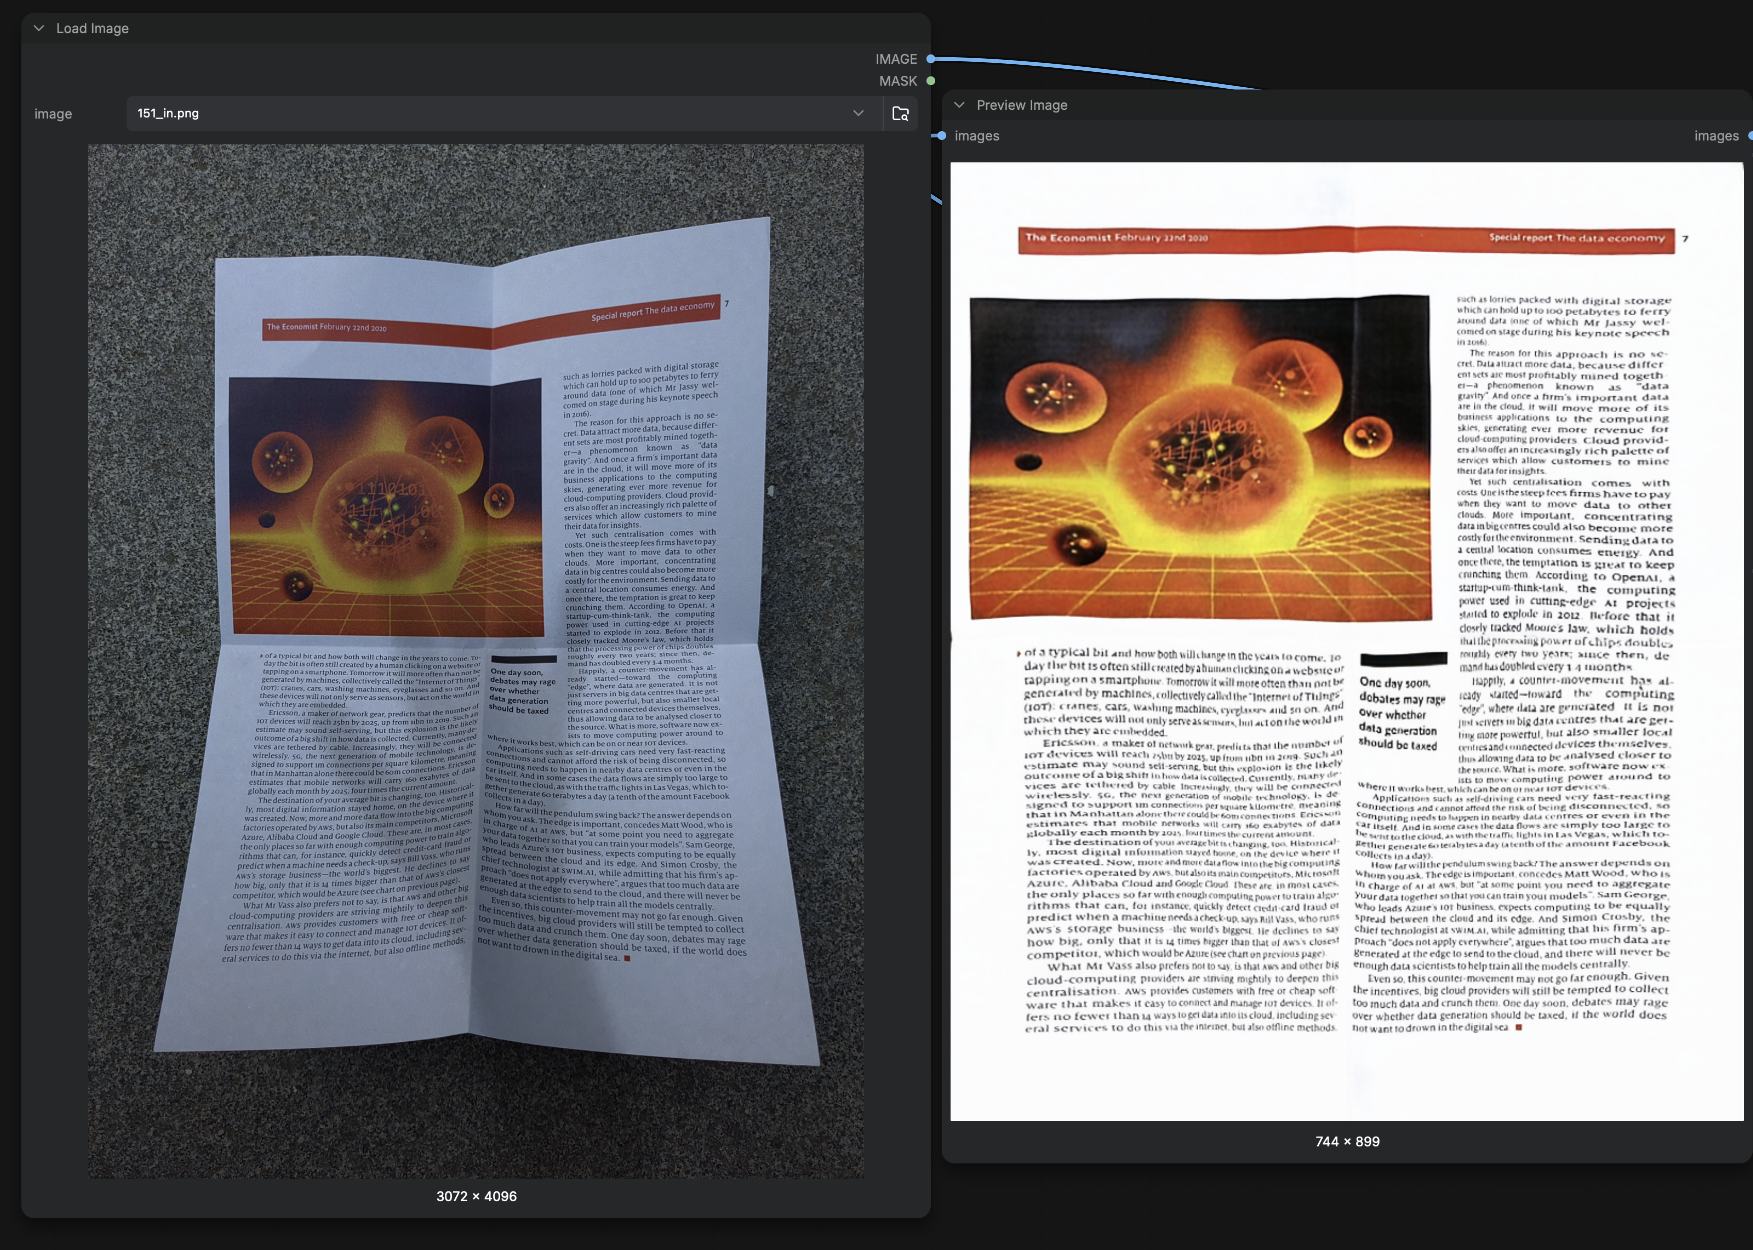
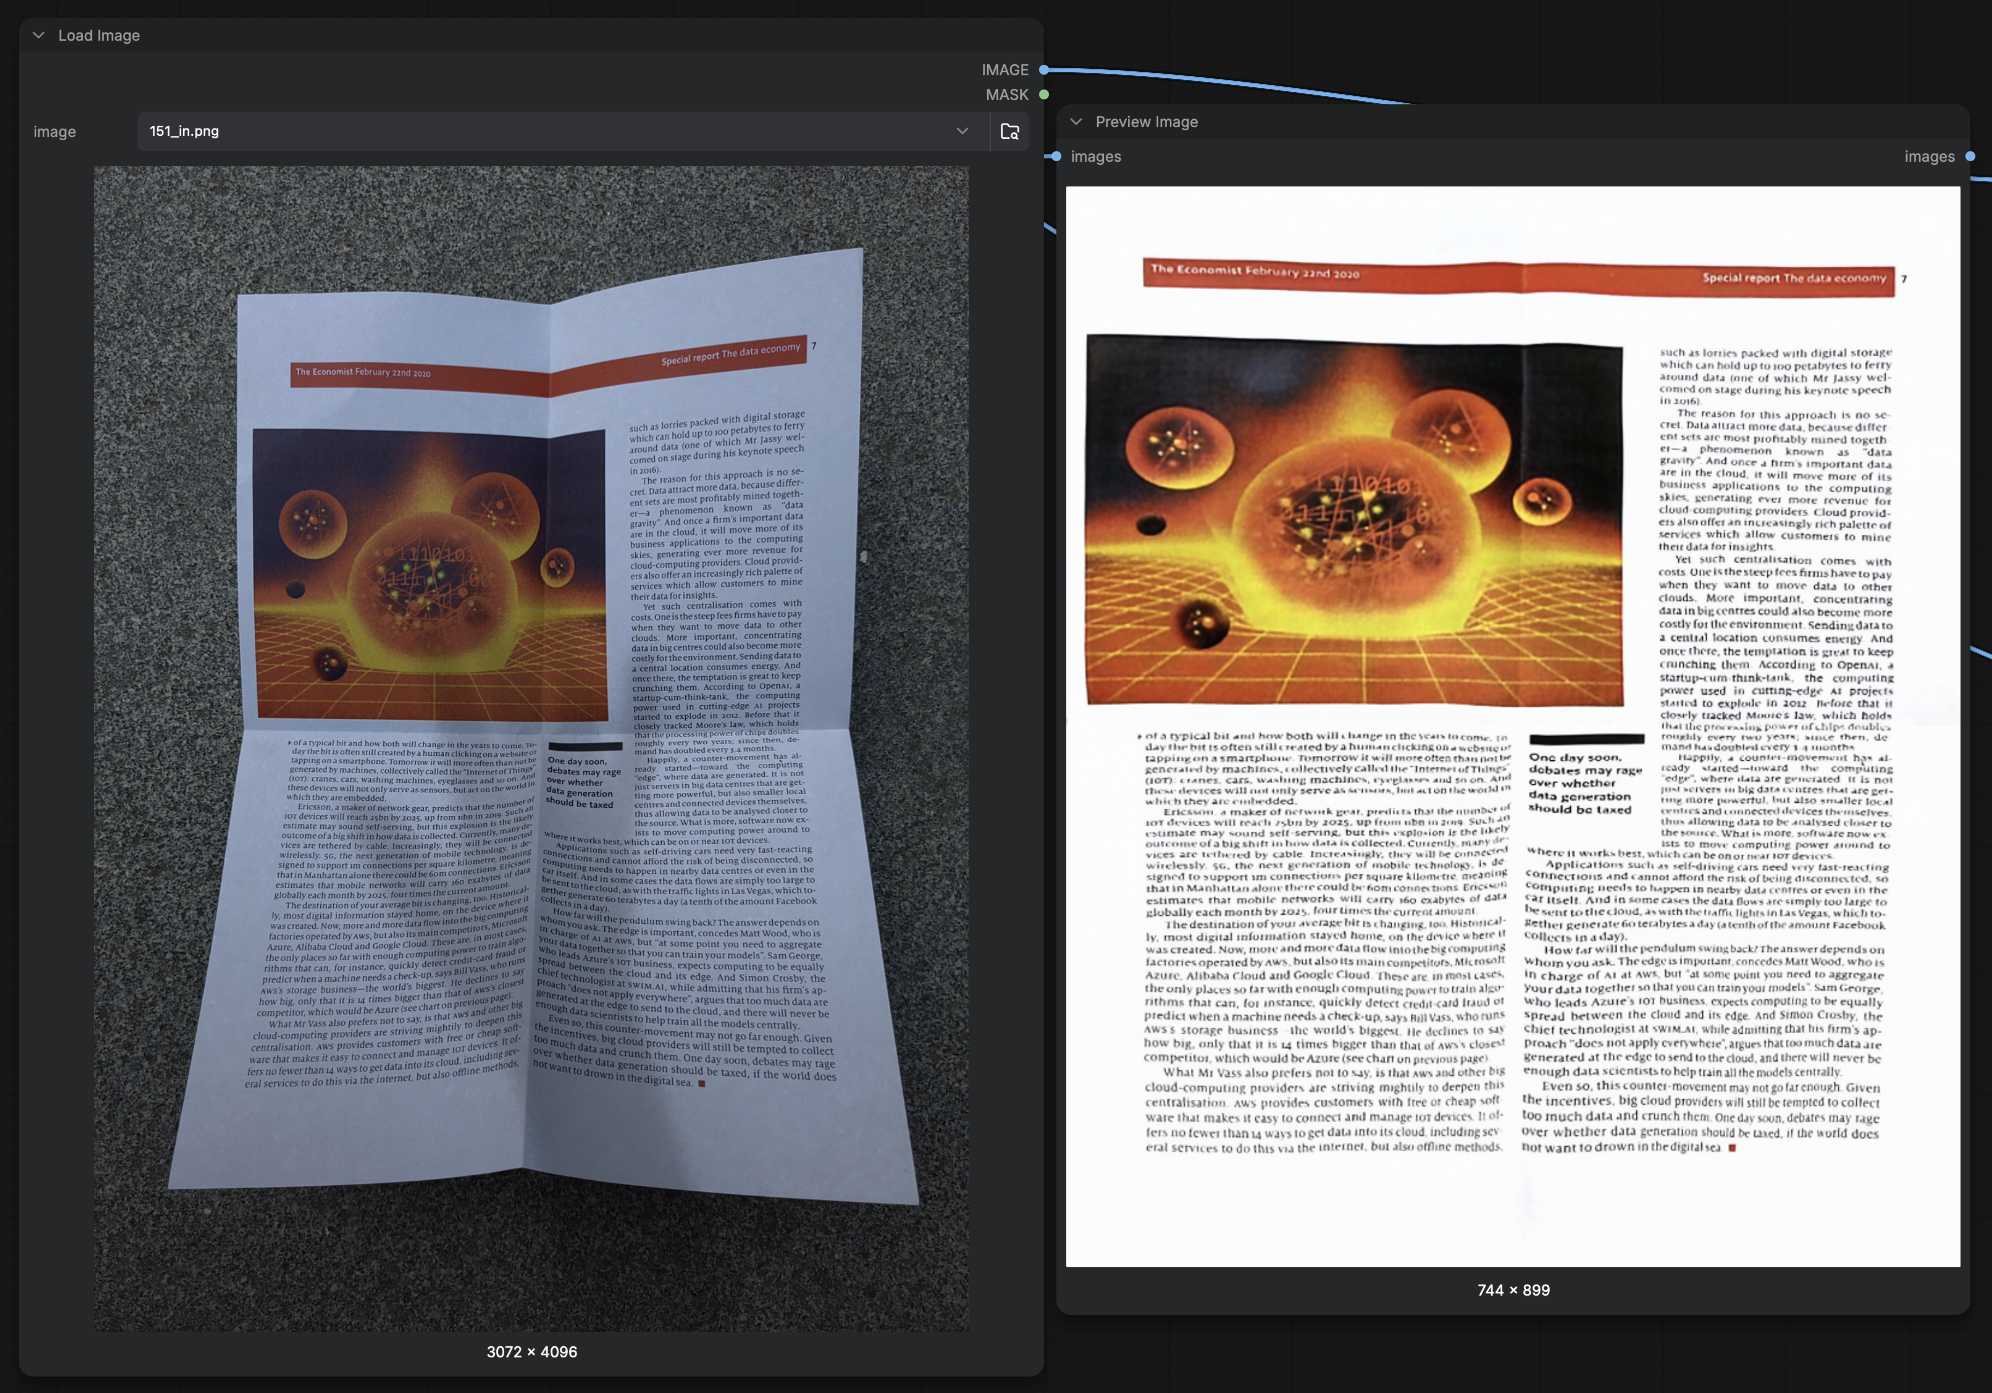
Fetch weights from Hugging Face instead of shipping them
The three checkpoints totalled ~335 MB (458 MB on GitHub LFS). Committing
them made every clone pay that cost and burned the LFS bandwidth quota after
a couple of dozen installs. They now download on first use from
zjkhurry/comfyui-docres-weights and cache in weights/, which is gitignored.

Weights already present in the node's weights/ or in ComfyUI's models/ are
used as-is, so nothing is fetched twice. The control-point checkpoint is the
stripped state_dict of the upstream training .pkl (152 MB -> 51 MB, verified
bit-identical), so it loads via safetensors rather than torch.load.

Adds pyproject.toml with the [tool.comfy] section for Comfy Registry.

diff --git a/weights_fetch.py b/weights_fetch.py
@@ -1,0 +1,83 @@
+"""Fetch model weights from Hugging Face on first use.
+
+The weights are not committed to this repository -- they are ~335 MB and would
+dominate every clone and, on GitHub LFS, burn the owner's bandwidth quota on the
+first couple of dozen installs. They live in a Hugging Face dataset instead:
+
+    https://huggingface.co/zjkhurry/comfyui-docres-weights
+
+Downloads are cached next to the node in `weights/`, so each file is fetched
+once. A file already present is never re-downloaded, and a download that was
+interrupted is retried on the next run rather than failing at load time.
+"""
+import os
+
+HERE = os.path.dirname(os.path.abspath(__file__))
+
+HF_REPO = "zjkhurry/comfyui-docres-weights"
+WEIGHT_DIR = os.path.join(HERE, "weights")
+
+# filename -> filename on the Hub
+FILES = {
+    "docres.safetensors": "docres.safetensors",
+    "mbd.safetensors": "mbd.safetensors",
+    "ddc_fiducial1024_v1.safetensors": "ddc_fiducial1024_v1.safetensors",
+}
+
+
+def _local_path(name):
+    """Where `name` lives once it has been downloaded."""
+    return os.path.join(WEIGHT_DIR, name)
+
+
+def _download(name, repo_id, local):
+    """Download one file straight into `local`.
+
+    `local_dir` puts the file where we want it instead of a shared cache that
+    would then have to be copied, which would leave a second copy on disk for no
+    benefit. A partial download is discarded so a retry starts clean.
+    """
+    from huggingface_hub import hf_hub_download
+
+    os.makedirs(WEIGHT_DIR, exist_ok=True)
+    partial = local + ".part"
+    if os.path.exists(partial):
+        os.remove(partial)
+    try:
+        path = hf_hub_download(
+            repo_id=repo_id, filename=name, local_dir=WEIGHT_DIR,
+        )
+    except Exception:
+        if os.path.exists(partial):
+            os.remove(partial)
+        raise
+    # hf_hub_download returns the real path; normalise it to what we promised.
+    return local if os.path.isfile(local) else path
+
+
+def ensure(name, repo_id=HF_REPO):
+    """Return a local path for `name`, downloading it first if necessary.
+
+    An existing file is used as-is, so a user who dropped the weights in
+    manually, or who is offline after the first run, is not forced to fetch
+    anything again.
+    """
+    local = _local_path(name)
+    if os.path.isfile(local) and os.path.getsize(local) > 0:
+        return local
+    return _download(name, repo_id, local)
+
+
+def prefetch(names=None, repo_id=HF_REPO):
+    """Download every weight in `FILES` (or just `names`).
+
+    Safe to call when the files are already present; it is how an installer or a
+    first-run hook warms the cache without loading any model.
+    """
+    wanted = list(names) if names else list(FILES)
+    missing = [n for n in wanted if not (
+        os.path.isfile(_local_path(n)) and os.path.getsize(_local_path(n)) > 0
+    )]
+    for name in missing:
+        _download(name, repo_id, _local_path(name))
+    return [_local_path(n) for n in wanted]

diff --git a/ddc_pipeline.py b/ddc_pipeline.py
@@ -29,7 +29,9 @@ import os
 import cv2
 import numpy as np
 import torch
+from safetensors.torch import load_file
 
+import weights_fetch
 from ddc.network import DilatedResnetForFlatByFiducialPointsS2, FiducialPoints
 from ddc.tpsV2 import createThinPlateSplineShapeTransformer
 
@@ -112,20 +114,19 @@ def resolve_device(preferred="auto"):
     return torch.device("cpu")
 
 
-# Control-point weights, shipped next to the network in ddc/models/.
-CHECKPOINT = os.path.join(
-    os.path.dirname(os.path.abspath(__file__)), "ddc", "models",
-    "2021-02-03 16_15_55flat_img_by_fiducial_points-fiducial1024_v1.pkl",
-)
+# Control-point weights, fetched from Hugging Face on first use and cached in
+# weights/. The upstream release is a training checkpoint whose optimizer state
+# is twice the size of the model; the copy on the Hub is the stripped
+# state_dict, so nothing here needs torch.load or the prefix fixup.
+CHECKPOINT_NAME = "ddc_fiducial1024_v1.safetensors"
 
 
 def _require_checkpoint():
-    if not os.path.isfile(CHECKPOINT):
-        raise FileNotFoundError(
-            "Control-point dewarping weights not found at:\n  %s\n"
-            "Expected the released checkpoint in ddc/models/." % CHECKPOINT
-        )
-    return CHECKPOINT
+    """Path to the control-point weights, downloading them if necessary."""
+    local = os.path.join(weights_fetch.WEIGHT_DIR, CHECKPOINT_NAME)
+    if os.path.isfile(local) and os.path.getsize(local) > 0:
+        return local
+    return weights_fetch.ensure(CHECKPOINT_NAME)
 
 
 def load_model(device):
@@ -143,9 +144,9 @@ def load_model(device):
         BatchNorm="BN",
         in_channels=3,
     )
-    checkpoint = torch.load(path, map_location="cpu", weights_only=False)
-    state = checkpoint["model_state"] if "model_state" in checkpoint else checkpoint
-    # The released checkpoint was saved through DataParallel.
+    state = load_file(path)
+    # Tolerate a file converted from the original .pkl, which carries the
+    # DataParallel prefix.
     state = {k[7:] if k.startswith("module.") else k: v for k, v in state.items()}
     model.load_state_dict(state)
     model = model.eval().to(device)

diff --git a/pipeline.py b/pipeline.py
@@ -17,6 +17,7 @@ from safetensors.torch import load_file
 
 import prompts
 import tiles
+import weights_fetch
 from mbd.deeplab import DeepLab
 from restormer_arch import Restormer
 
@@ -31,8 +32,13 @@ _MODEL_CACHE = {}
 
 
 def _find_weight(name):
-    """Look for a weight file bundled with the node, then in ComfyUI models/."""
-    candidates = [os.path.join(HERE, "models", name)]
+    """Locate `name`, preferring a local copy and downloading it if absent.
+
+    Search order: the node's own weights/ cache, then ComfyUI's model folders
+    (so a user who placed the file there is not made to fetch it again), then
+    Hugging Face.
+    """
+    candidates = [os.path.join(weights_fetch.WEIGHT_DIR, name)]
     try:
         import folder_paths
         candidates.append(os.path.join(folder_paths.models_dir, name))
@@ -42,11 +48,10 @@ def _find_weight(name):
         pass
 
     for path in candidates:
-        if os.path.isfile(path):
+        if os.path.isfile(path) and os.path.getsize(path) > 0:
             return path
-    raise FileNotFoundError(
-        "DocRes weight '%s' not found. Looked in:\n  %s" % (name, "\n  ".join(candidates))
-    )
+
+    return weights_fetch.ensure(name)
 
 
 def _resolve_device(preferred=None):

diff --git a/README.md b/README.md
@@ -34,19 +34,15 @@ git clone https://github.com/zjkhurry/comfyui-docres.git
 pip install -r comfyui-docres/requirements.txt
 ```
 
-The weights are stored in this repo with [Git LFS](https://git-lfs.com), so a normal `git clone` pulls them down automatically. If you ever need to clone without them:
-
-```bash
-GIT_LFS_SKIP_SMUDGE=1 git clone https://github.com/zjkhurry/comfyui-docres.git
-```
+The weights (~335 MB) are **not** in this repo — they download automatically from [Hugging Face](https://huggingface.co/zjkhurry/comfyui-docres-weights) the first time a node needs them, and are cached in `comfyui-docres/weights/`. Nothing to do.
 
 | weights | size | used by |
 |---------|------|---------|
-| `models/docres.safetensors` | 58 MB | DocRes Restore |
-| `models/mbd.safetensors` | 227 MB | DocRes Restore — `dewarping` only |
-| `ddc/models/*.pkl` | 152 MB | DDC Predict Points |
+| `docres.safetensors` | 58 MB | DocRes Restore |
+| `mbd.safetensors` | 227 MB | DocRes Restore — `dewarping` only |
+| `ddc_fiducial1024_v1.safetensors` | 51 MB | DDC Predict Points |
 
-They can also live in `ComfyUI/models/docres/` — both locations are checked. If you only want DocRes and not the control-point nodes, you can delete `ddc/models/`.
+Weights already present in `ComfyUI/models/` are used as-is, so you can drop them there instead and nothing will be downloaded.
 
 Restart ComfyUI. All nodes appear under **image/DocRes**.
 

diff --git a/README_zh.md b/README_zh.md
@@ -34,19 +34,15 @@ git clone https://github.com/zjkhurry/comfyui-docres.git
 pip install -r comfyui-docres/requirements.txt
 ```
 
-权重用 [Git LFS](https://git-lfs.com) 存在本仓库里，正常 `git clone` 会自动拉下来。如果你想跳过权重克隆：
-
-```bash
-GIT_LFS_SKIP_SMUDGE=1 git clone https://github.com/zjkhurry/comfyui-docres.git
-```
+权重（约 335 MB）**不在本仓库里** —— 节点第一次用到时会自动从 [Hugging Face](https://huggingface.co/zjkhurry/comfyui-docres-weights) 下载，并缓存到 `comfyui-docres/weights/`。不需要做任何操作。
 
 | 权重 | 大小 | 用途 |
 |------|------|------|
-| `models/docres.safetensors` | 58 MB | DocRes Restore |
-| `models/mbd.safetensors` | 227 MB | DocRes Restore —— 仅 `dewarping` 用 |
-| `ddc/models/*.pkl` | 152 MB | DDC Predict Points |
+| `docres.safetensors` | 58 MB | DocRes Restore |
+| `mbd.safetensors` | 227 MB | DocRes Restore —— 仅 `dewarping` 用 |
+| `ddc_fiducial1024_v1.safetensors` | 51 MB | DDC Predict Points |
 
-也可以放到 `ComfyUI/models/docres/` 下，两个位置都会检查。如果只用 DocRes、不用控制点节点，`ddc/models/` 可以删掉。
+如果 `ComfyUI/models/` 下已经有权重，会直接使用、不会重复下载。
 
 重启 ComfyUI，所有节点出现在 **image/DocRes** 分类下。
 
